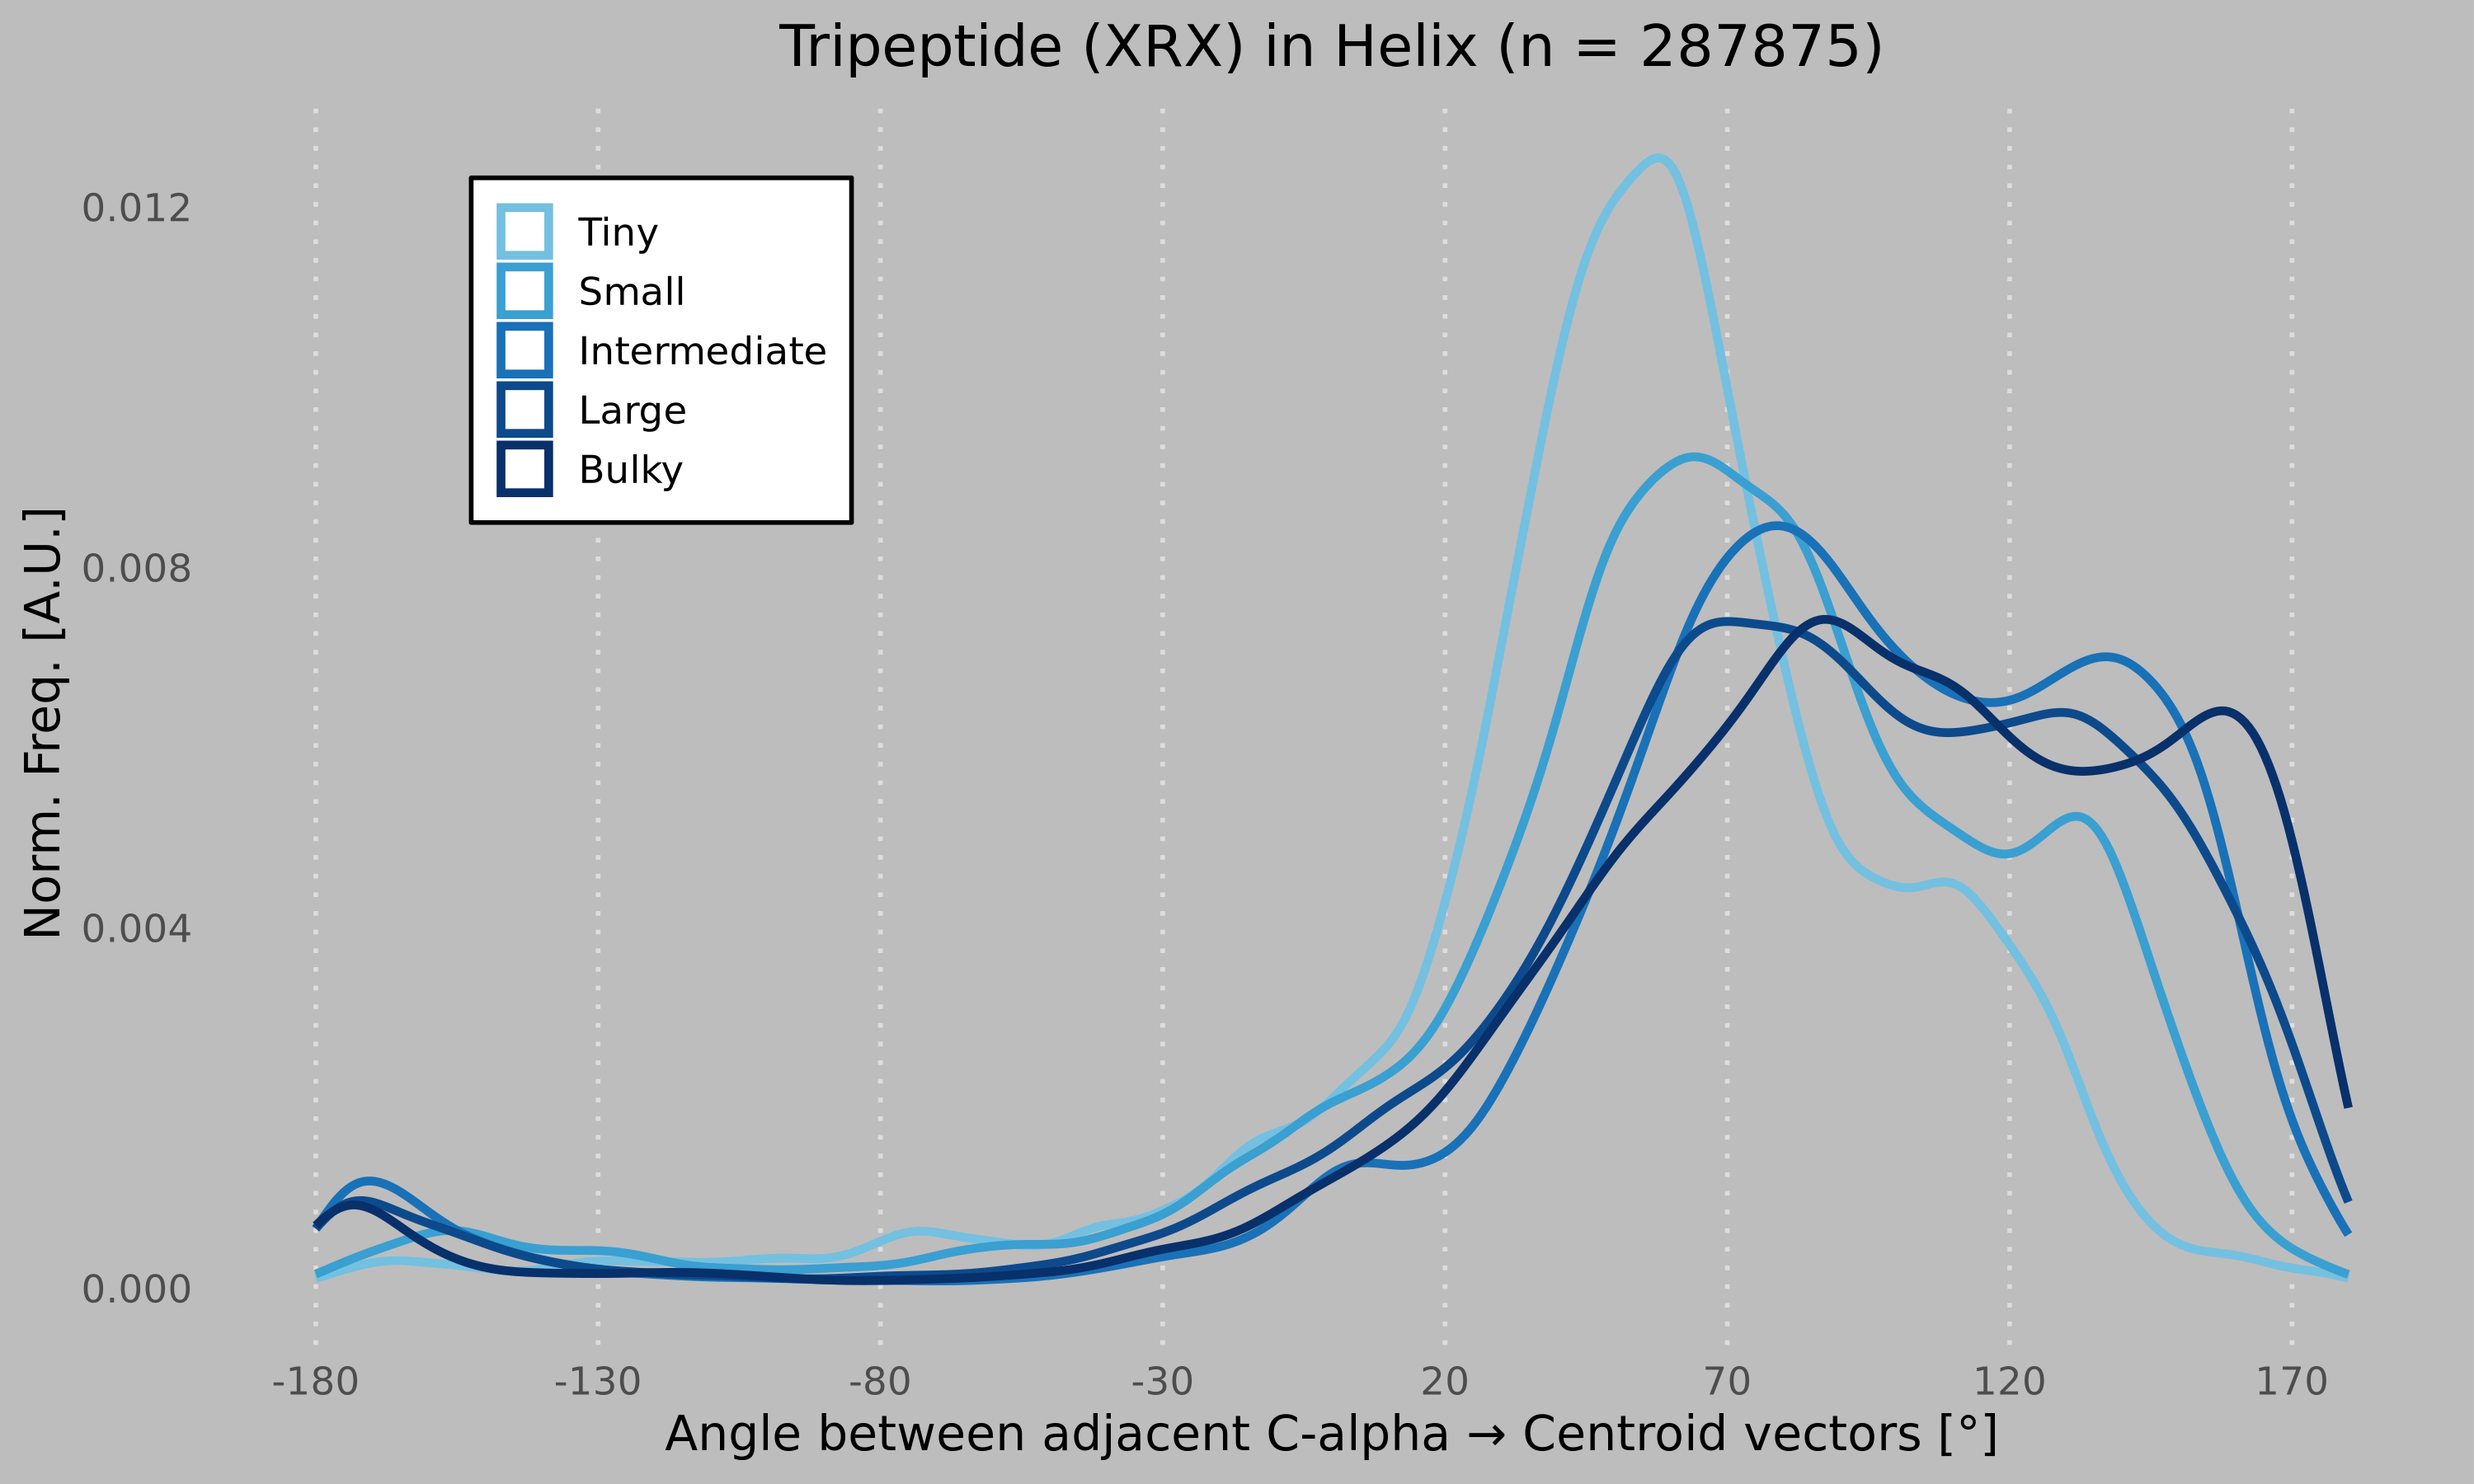
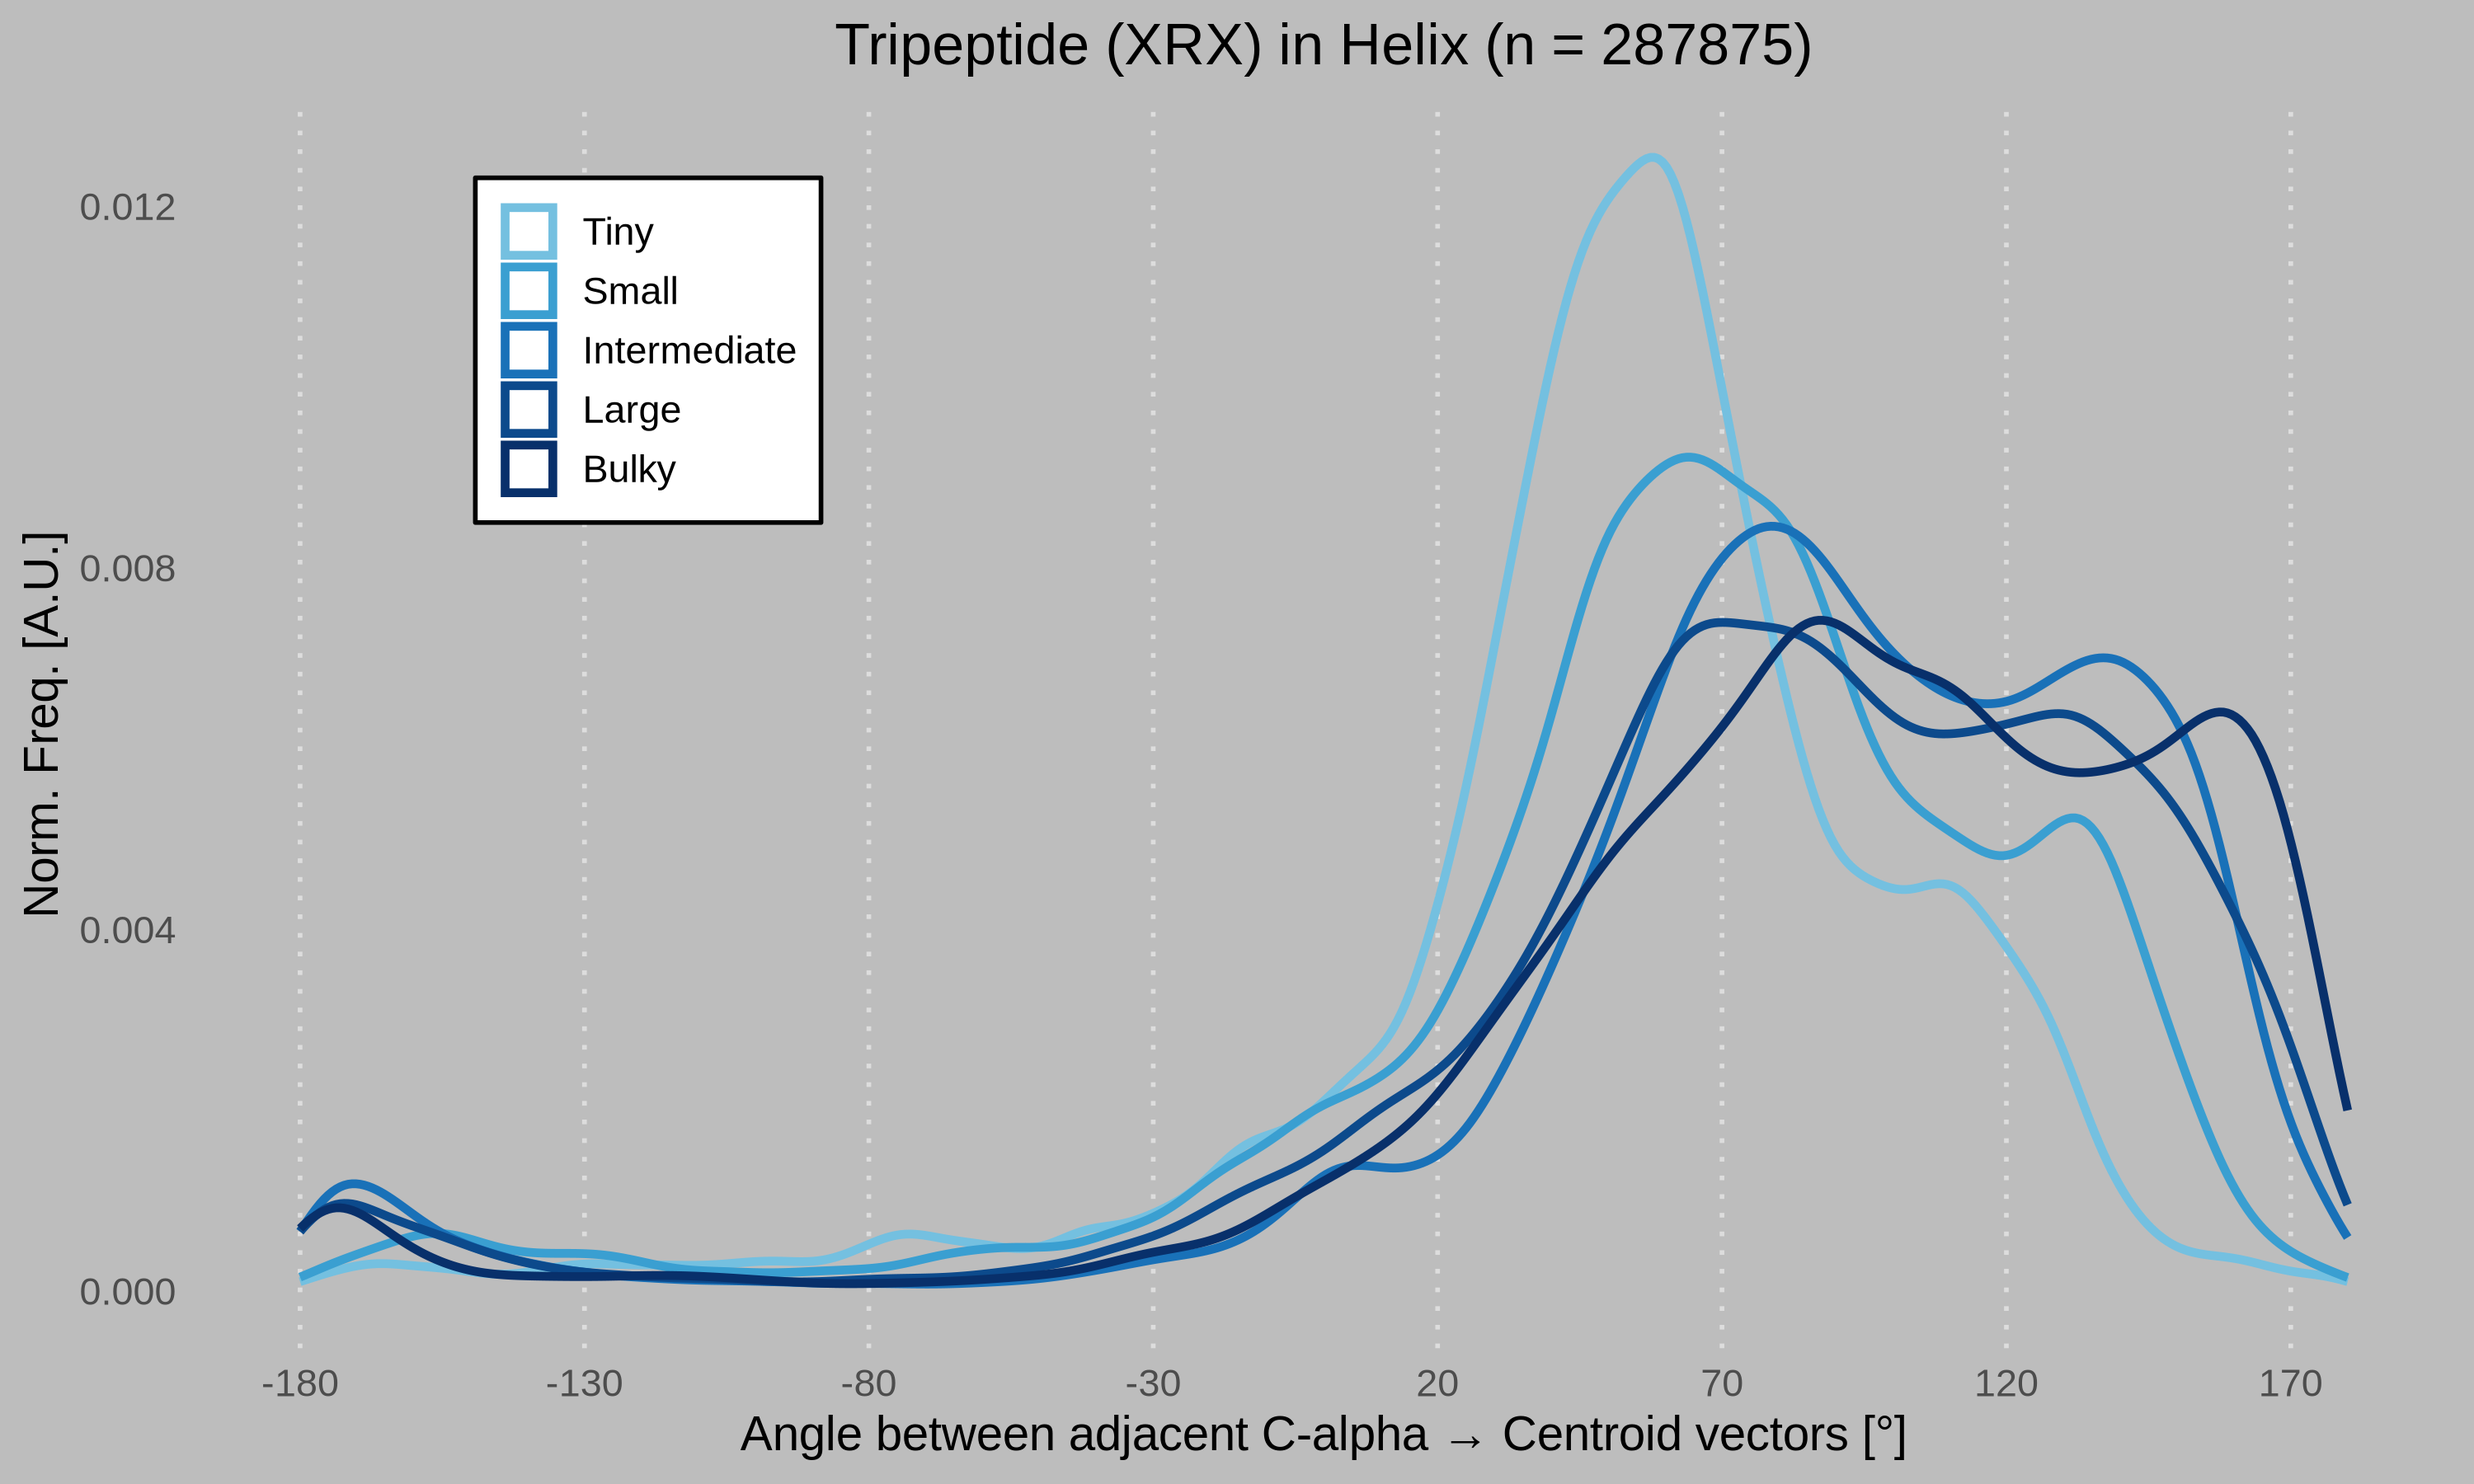
Added Plot image in README

diff --git a/README.md b/README.md
@@ -55,7 +55,7 @@ bash run_pipeline.sh [PDB_DIR] [STRIDE_BIN]
 - `PDB_DIR` — path to folder containing `.pdb.gz` files (default: `pdbs`)
 - `STRIDE_BIN` — path to the STRIDE binary (default: `/usr/local/bin/stride`)
 
-This runs all four steps sequentially with 8 cores each.
+This runs all four steps sequentially with 4 cores each.
 
 ---
 
@@ -138,7 +138,9 @@ The PDB directory is passed as the 4th argument (sourced from the `PDB_DIR` envi
 Rscript scripts/plot_angle_distribution.R
 ```
 
-Reads `results/angles.tsv` and saves `results/angle_plot.png` — a density plot of angles (−180° to 180°) with one curve per size class, colored from pale pale blue (Tiny) to deep navy (Bulky). 
+Reads `results/angles.tsv` and saves `results/angle_plot.png` — a density plot of angles (−180° to 180°) with one curve per size class, colored from pale gray (Tiny) to dark blue (Bulky).
+
+![Angle Distribution](results/angle_plot.png)
 
 ---
 
